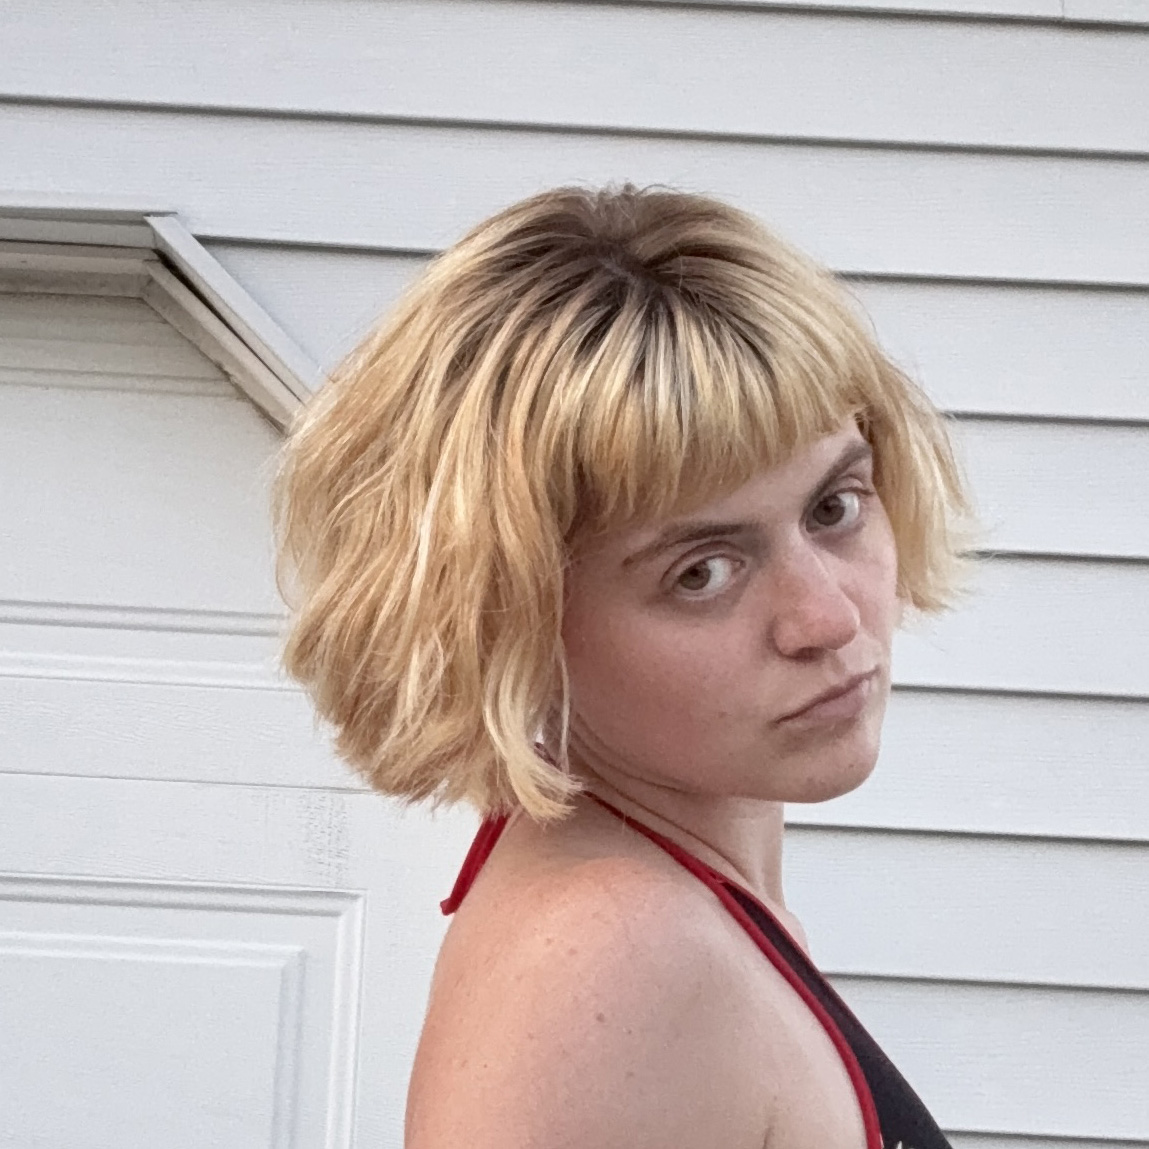
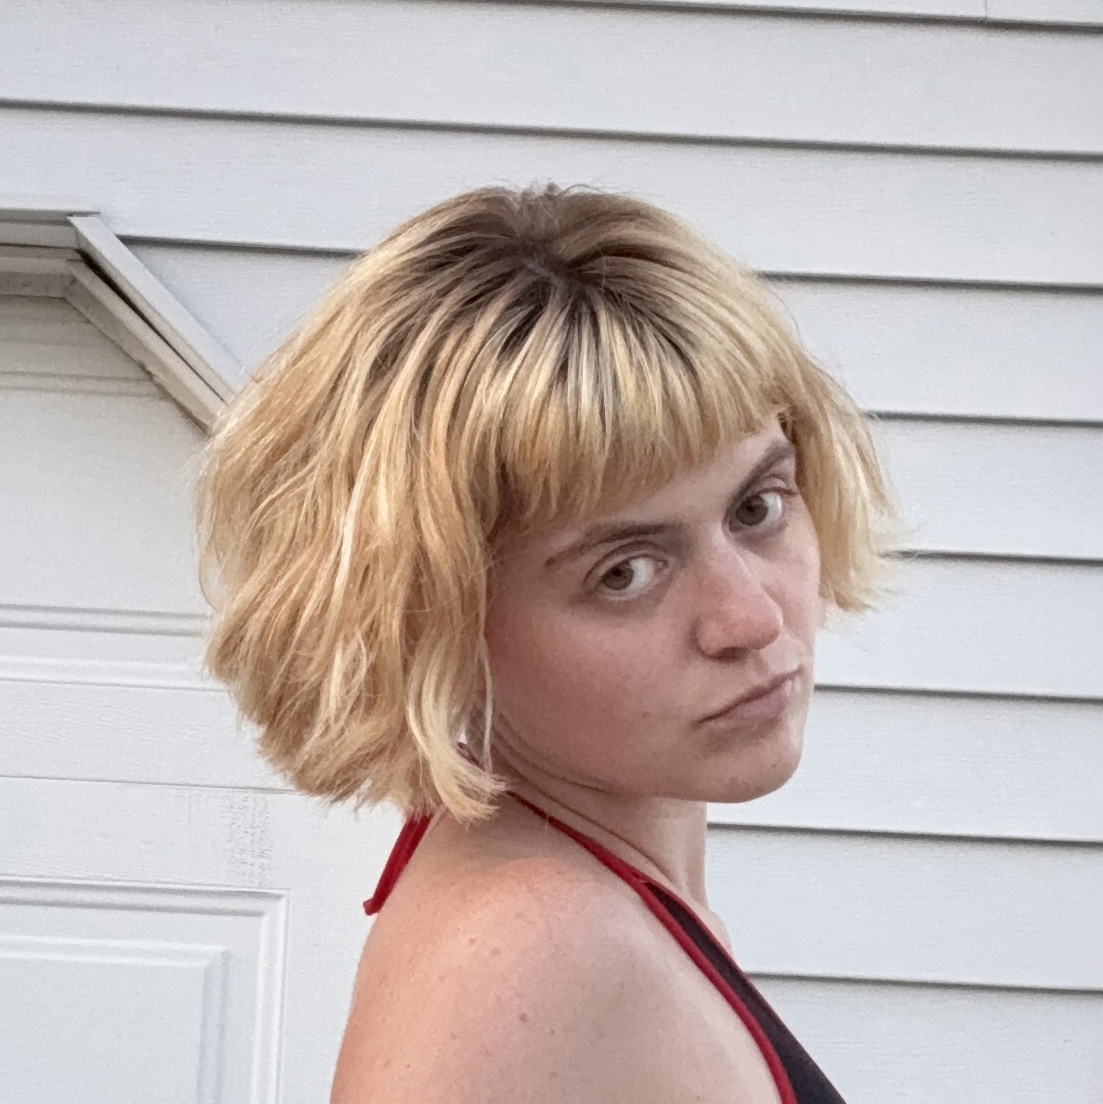
update copyright year

diff --git a/app/page.tsx b/app/page.tsx
@@ -267,7 +267,7 @@ export default function Home() {
               borderColor: siteConfig.colors.midBg
             }}
           >
-            <p>© 2024 {siteConfig.name}. All rights reserved.</p>
+            <p>© 2025 {siteConfig.name}. All rights reserved.</p>
           </div>
         </div>
       </main>
